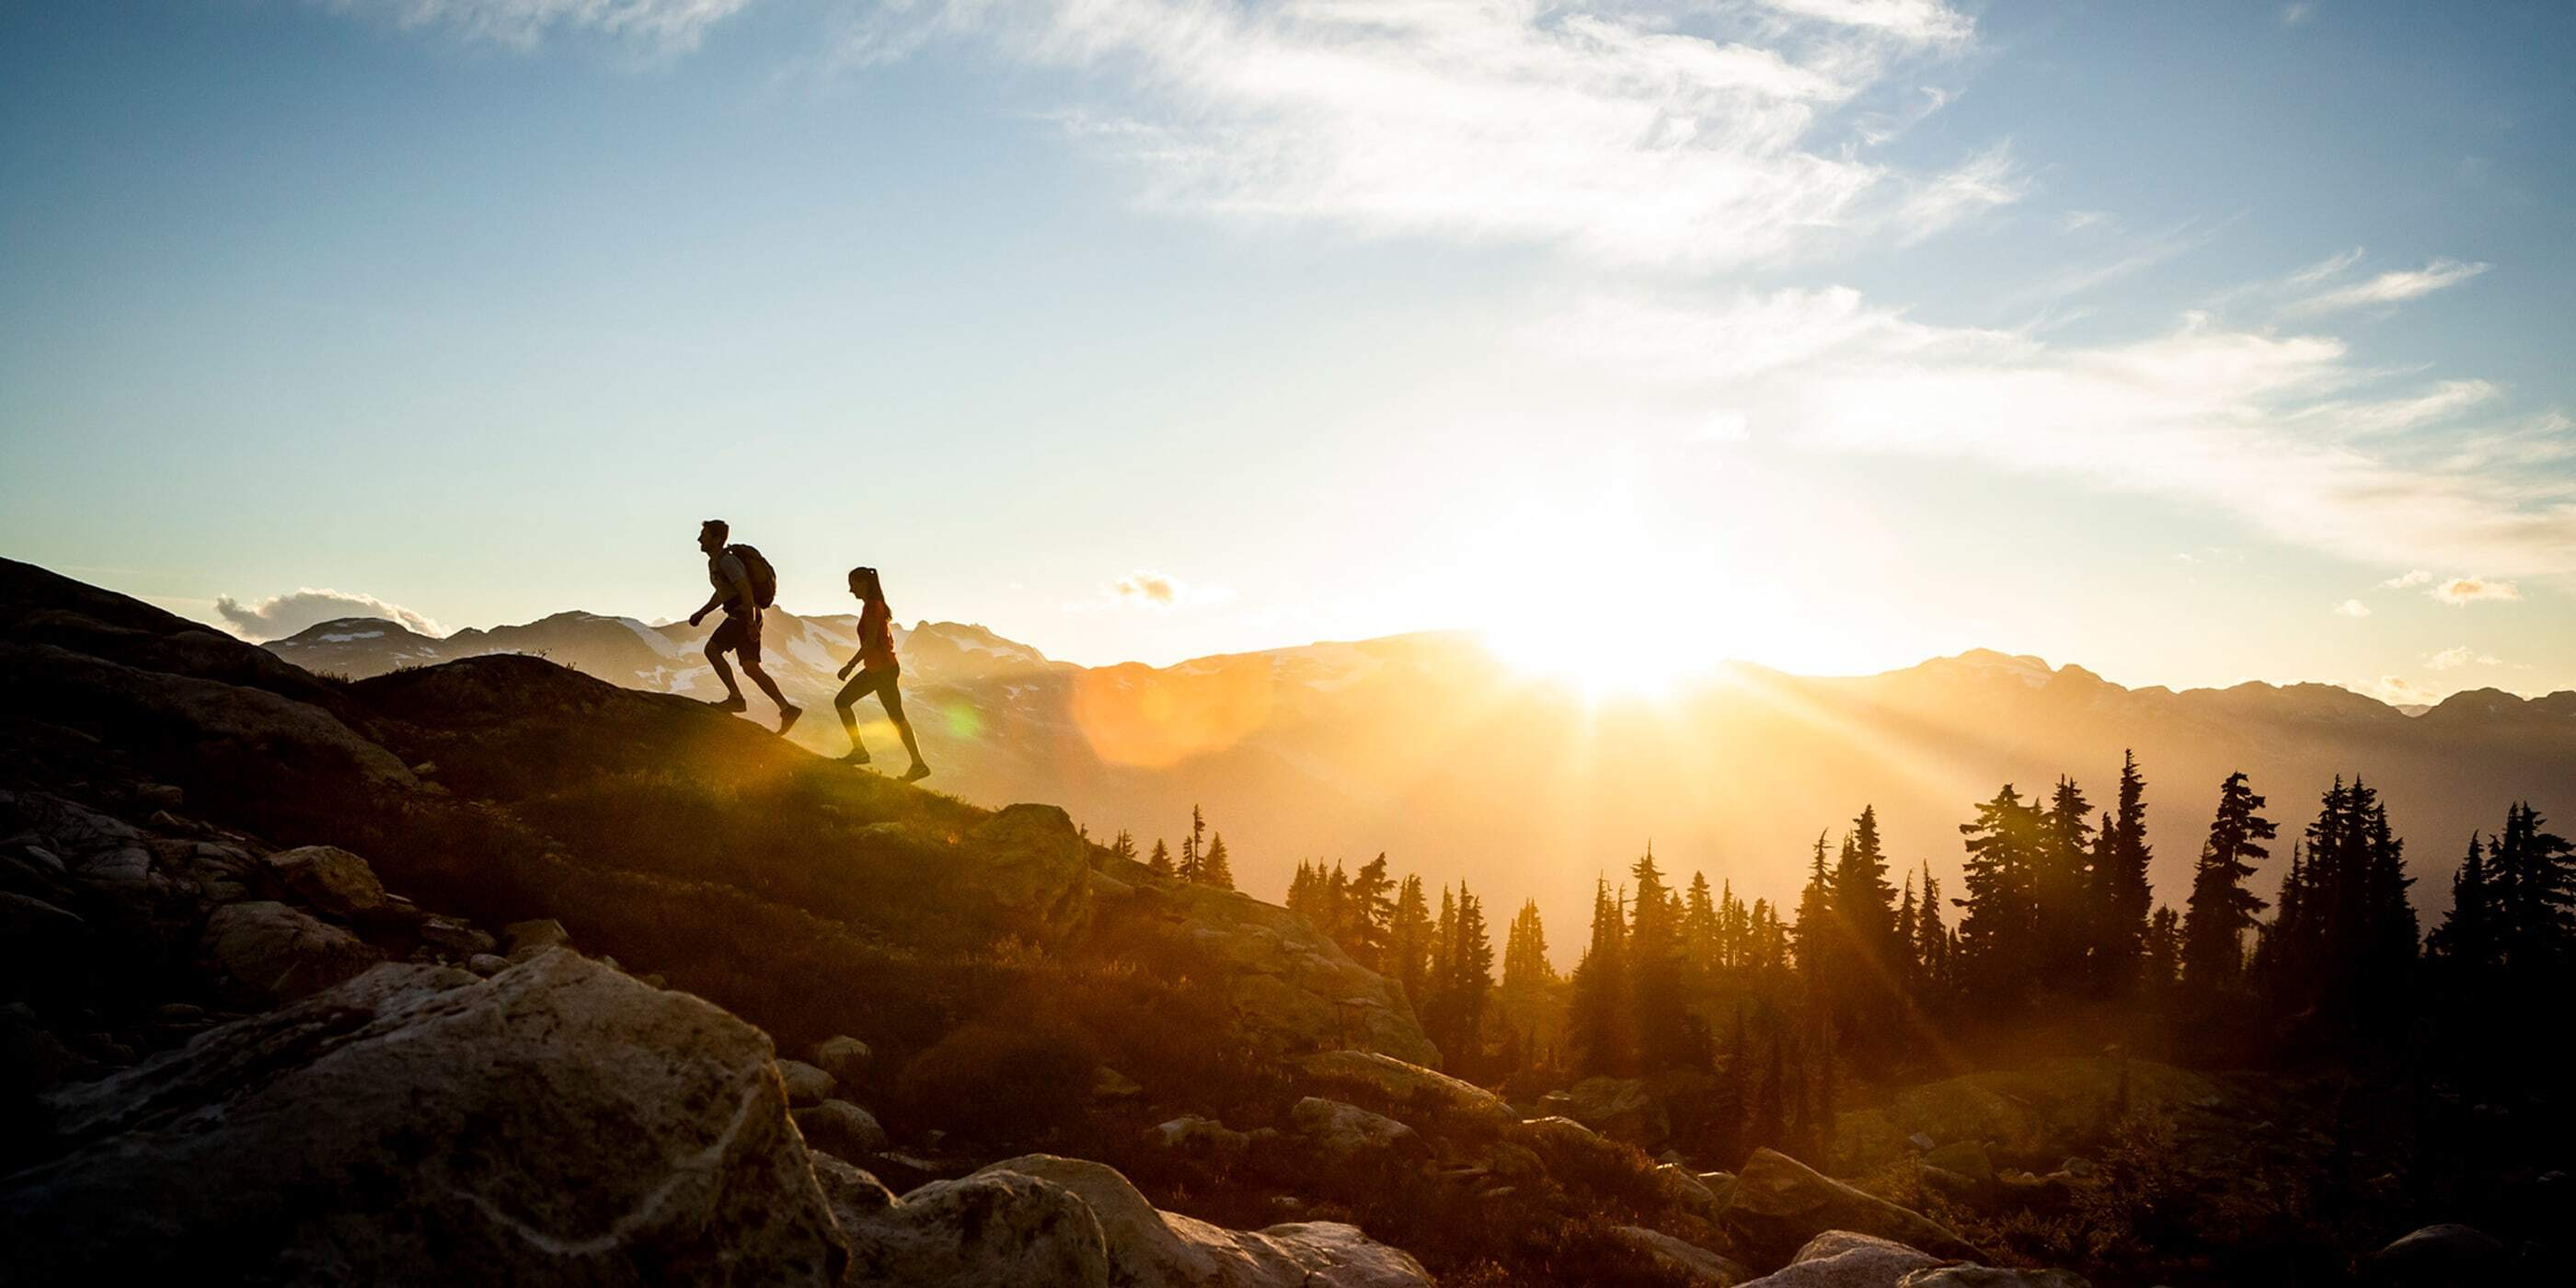
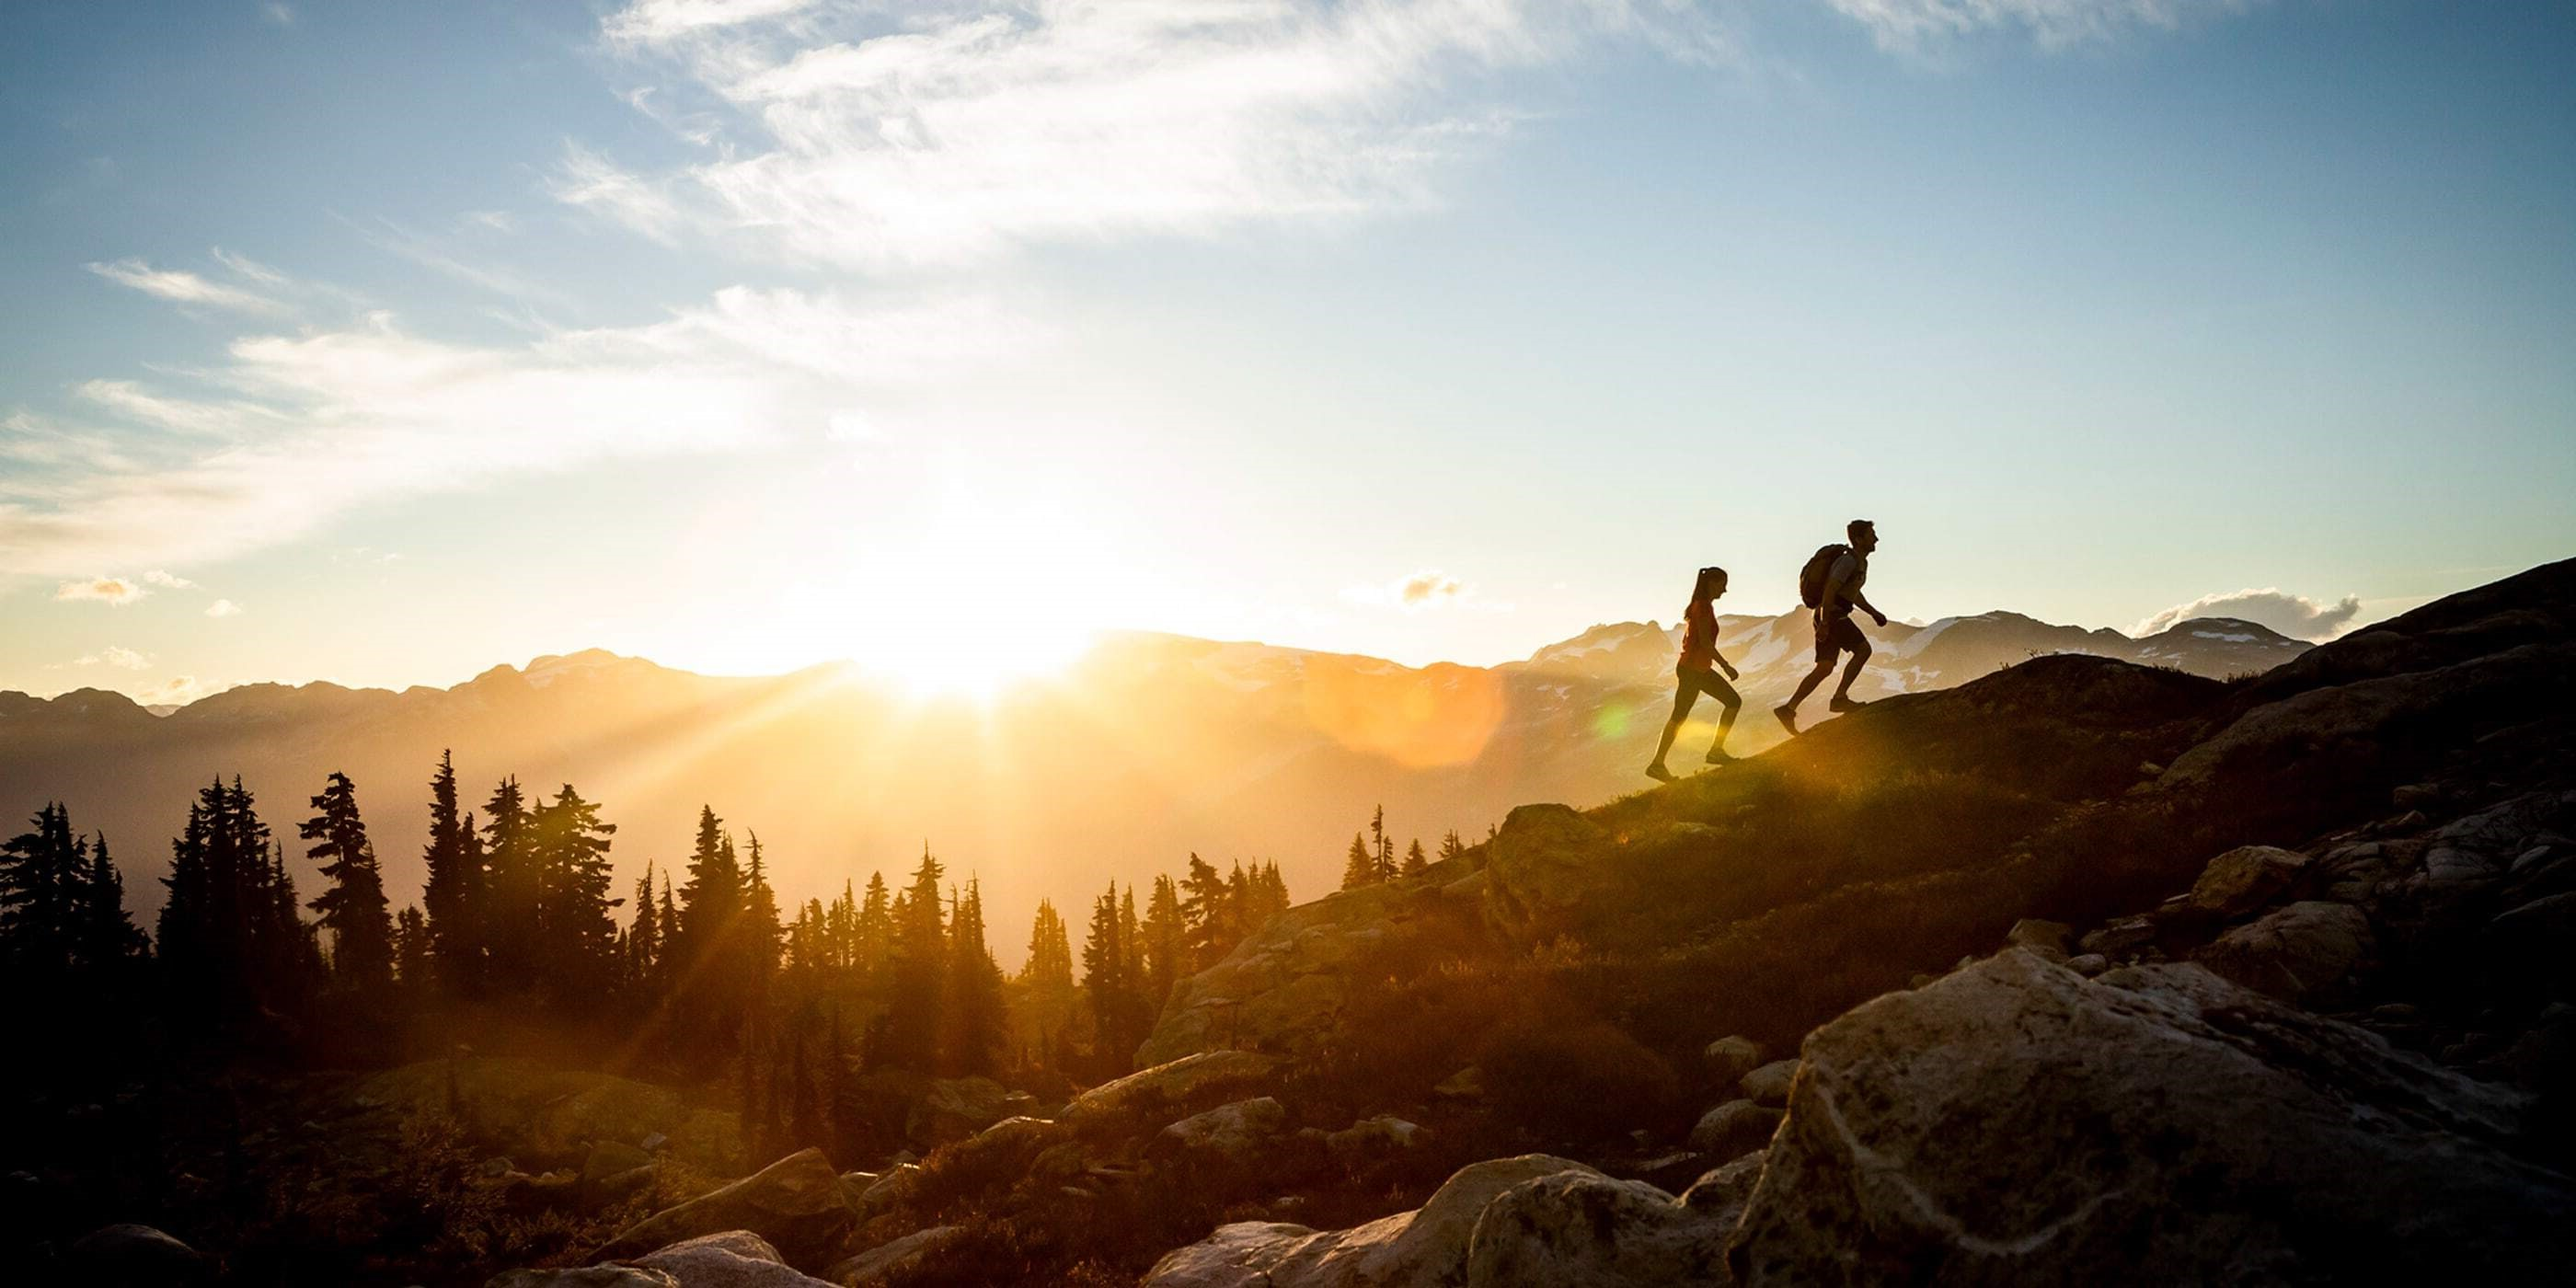
fixed

diff --git a/index.html b/index.html
@@ -5,51 +5,33 @@
     <meta charset="UTF-8">
     <meta http-equiv="X-UA-Compatible" content="IE=edge">
     <meta name="viewport" content="width=device-width, initial-scale=1.0">
-<<<<<<< HEAD
     <link href="https://cdn.jsdelivr.net/npm/bootstrap@5.0.1/dist/css/bootstrap.min.css" rel="stylesheet" integrity="sha384-+0n0xVW2eSR5OomGNYDnhzAbDsOXxcvSN1TPprVMTNDbiYZCxYbOOl7+AMvyTG2x" crossorigin="anonymous">
     <link rel="stylesheet" href="https://cdnjs.cloudflare.com/ajax/libs/open-iconic/1.1.1/font/css/open-iconic-bootstrap.min.css" />
     <link href="https://fonts.googleapis.com/css2?family=Ubuntu:wght@300&display=swap" rel="stylesheet">
     <link rel="stylesheet" href="./assets/css/style.css"/>
-=======
-    <link rel="stylesheet" href="https://stackpath.bootstrapcdn.com/bootstrap/4.3.1/css/bootstrap.min.css" />
-    <link rel="stylesheet" href="https://cdnjs.cloudflare.com/ajax/libs/open-iconic/1.1.1/font/css/open-iconic-bootstrap.min.css" />
-    <link rel="stylesheet" href="./assets/css/style.css" />
->>>>>>> 13b6831e3781b1c6a8ca510b97fe1b7eaefada41
     <title>Hike Findr</title>
 </head>
 
-<body>
-    <header id="intro-page-header-wrapper" class="row justify-content-center">
+<body id="intro-page-body">
+    <header id="intro-page-header-wrapper" class="row justify-content-center mb-0">
         <h1 id="intro-page-header" class="display-2 text-white text-center bg-success p-0 m-0 col-sm-6 col-md-6 col-lg-5 col-xl-5 col-xxl-4">
             Welcome to HikeFindr!
         </h1>
     </header>
 
-<<<<<<< HEAD
     <main class="row justify-content-center">
-        <div id="intro-elements" class="row justify-content-center col-5 mt-3">
-                <p id="description" class="col-10 card border-success text-heavy p-2 fs-5">
-                    HikeFindr is a web application that was built to help you find the perfect hike!
-                    We use public data to find hikes close to you, and use your input to decide which hikes
-                    are most relavent for you, while also looking at things like weather and travel time,
-                    to help you not only find the best hike for you, but also the most convenient.
-                </p>
-                <button id="initialize" class="col-3 btn btn-outline-success mt-3 fs-5">
+        <div id="intro-elements" class="row justify-content-center col-5 mt-3 img-wrapper">
+            <p id="description" class="col-10 card border-success text-heavy p-2 fs-5">
+                HikeFindr is a web application that was built to help you find the perfect hike!
+                We use public data to find hikes close to you, and use your input to decide which hikes
+                are most relavent for you, while also looking at things like weather and travel time,
+                to help you not only find the best hike for you, but also the most convenient.
+            </p>
+            <a href="./MoreInfoPage.html" class="col-3">
+                <button id="mainBtn" class="btn btn-success fs-3">
                     Plan your next hike!
                 </button>
-=======
-    <main>
-        <div class="img-wrapper">
-
-            <img class="img-fluid" src="./assets/images/hero.jpeg" alt="">
-            <div class="img-overlay">
-
-                <a href="./MoreInfoPage.html">
-                    <button type="button" class="btn btn-light btn-lg" id="mainBtn">Plan your next hike!</button>
-                </a>
-
-            </div>
->>>>>>> 13b6831e3781b1c6a8ca510b97fe1b7eaefada41
+            </a>
         </div>
 
         <div id="form-wrapper">

diff --git a/MoreInfoPage.html b/MoreInfoPage.html
@@ -2,7 +2,6 @@
 <html lang="en">
 
 <head>
-<<<<<<< HEAD
     <meta charset="UTF-8">
     <meta http-equiv="X-UA-Compatible" content="IE=edge">
     <meta name="viewport" content="width=device-width, initial-scale=1.0">
@@ -10,16 +9,6 @@
     <link rel="stylesheet" href="https://cdnjs.cloudflare.com/ajax/libs/open-iconic/1.1.1/font/css/open-iconic-bootstrap.min.css" />
     <link rel="stylesheet" href="./assets/css/style.css"/>
     <title>Document</title>
-=======
-   <meta charset="UTF-8">
-   <meta http-equiv="X-UA-Compatible" content="IE=edge">
-   <meta name="viewport" content="width=device-width, initial-scale=1.0">
-   <link rel="stylesheet" href="./assets/css/style.css" />
-   <link rel="stylesheet" href="https://stackpath.bootstrapcdn.com/bootstrap/4.3.1/css/bootstrap.min.css" />
-   <link rel="stylesheet"
-      href="https://cdnjs.cloudflare.com/ajax/libs/open-iconic/1.1.1/font/css/open-iconic-bootstrap.min.css" />
-   <title>Hike Findr </title>
->>>>>>> 13b6831e3781b1c6a8ca510b97fe1b7eaefada41
 </head>
 
 <body>
@@ -30,7 +19,6 @@
       </div>
    </header>
 
-<<<<<<< HEAD
     <main id="hike-content">
         <!-- dynamically created hiking content goes here -->
     </main>
@@ -39,23 +27,6 @@
     <script src="https://cdnjs.cloudflare.com/ajax/libs/twitter-bootstrap/4.3.1/js/bootstrap.min.js"></script>
     <script src="https://cdnjs.cloudflare.com/ajax/libs/dayjs/1.10.5/dayjs.min.js" integrity="sha512-n6mJ6AqoohFfbgx3x7N162B/zRNs5x8uvsStlHC+LCvqwKW7oiucE07Ehatg62ybx6Vo1ctaZwm/4sSRUTSIQA==" crossorigin="anonymous" referrerpolicy="no-referrer"></script>
     <script src="./assets/script/infopage.js"></script>
-=======
-   <main id="hike-content">
-      <div class="container img-overlay">
-         <button type="button" id="hikeLength" class="btn btn-success btn-lg">Trail Length</button>
-         <button type="button" id="hikeDifficulty" class="btn btn-success btn-lg">Trail Difficulty</button>
-         <button type="button" id="hikeSubmit" class="btn btn-success btn-lg">Find your Trail</button>
-      </div>
-      <!-- dynamically created hiking content goes here -->
-   </main>
-   <script src="https://code.jquery.com/jquery-3.4.1.min.js"></script>
-   <script src="https://cdnjs.cloudflare.com/ajax/libs/jqueryui/1.12.1/jquery-ui.min.js"></script>
-   <script src="https://cdnjs.cloudflare.com/ajax/libs/dayjs/1.10.5/dayjs.min.js"
-      integrity="sha512-n6mJ6AqoohFfbgx3x7N162B/zRNs5x8uvsStlHC+LCvqwKW7oiucE07Ehatg62ybx6Vo1ctaZwm/4sSRUTSIQA=="
-      crossorigin="anonymous" referrerpolicy="no-referrer"></script>
-   <script src="https://cdnjs.cloudflare.com/ajax/libs/twitter-bootstrap/4.3.1/js/bootstrap.min.js"></script>
-   <script src="./assets/script/infopage.js"></script>
->>>>>>> 13b6831e3781b1c6a8ca510b97fe1b7eaefada41
 </body>
 
 </html>

diff --git a/ResultsPage.html b/ResultsPage.html
@@ -5,15 +5,9 @@
     <meta charset="UTF-8">
     <meta http-equiv="X-UA-Compatible" content="IE=edge">
     <meta name="viewport" content="width=device-width, initial-scale=1.0">
-<<<<<<< HEAD
     <link rel="stylesheet" href="https://stackpath.bootstrapcdn.com/bootstrap/4.3.1/css/bootstrap.min.css"/>
     <link rel="stylesheet" href="https://cdnjs.cloudflare.com/ajax/libs/open-iconic/1.1.1/font/css/open-iconic-bootstrap.min.css" />
     <link rel="stylesheet" href="./assets/css/style.css"/>
-=======
-    <link rel="stylesheet" href="https://stackpath.bootstrapcdn.com/bootstrap/4.3.1/css/bootstrap.min.css" />
-    <link rel="stylesheet" href="https://cdnjs.cloudflare.com/ajax/libs/open-iconic/1.1.1/font/css/open-iconic-bootstrap.min.css" />
-    <link rel="stylesheet" href="./assets/css/style.css" />
->>>>>>> 13b6831e3781b1c6a8ca510b97fe1b7eaefada41
     <title>Document</title>
 </head>
 

diff --git a/assets/css/style.css b/assets/css/style.css
@@ -1,11 +1,10 @@
 
 * {
     font-family: "Ubuntu";
-    margin: 15px;
 }
 
 #description {
-    background-color: rgba(24, 135, 84, 0.1);
+    background-color: rgba(24, 135, 84, 0.5);
 }
 
 body {
@@ -22,19 +21,11 @@ body {
    position: absolute;
 }
 
-#moreinfo-page-header {
-   margin: 0;
-   text-align: center;
-    /* background-image: url(../images/hiking-info.jpg); */
-    height: 100vh;
-    margin: 0;
+#intro-page-body {
+    background-image: url(../images/hero.jpeg);
     background-repeat: no-repeat;
     background-size: cover;
-    /* opacity: 0.5; */
-}
-
-.img-wrapper {
-    position: relative;
+    background-position: 50% 50%;
 }
 
 .img-responsive {
